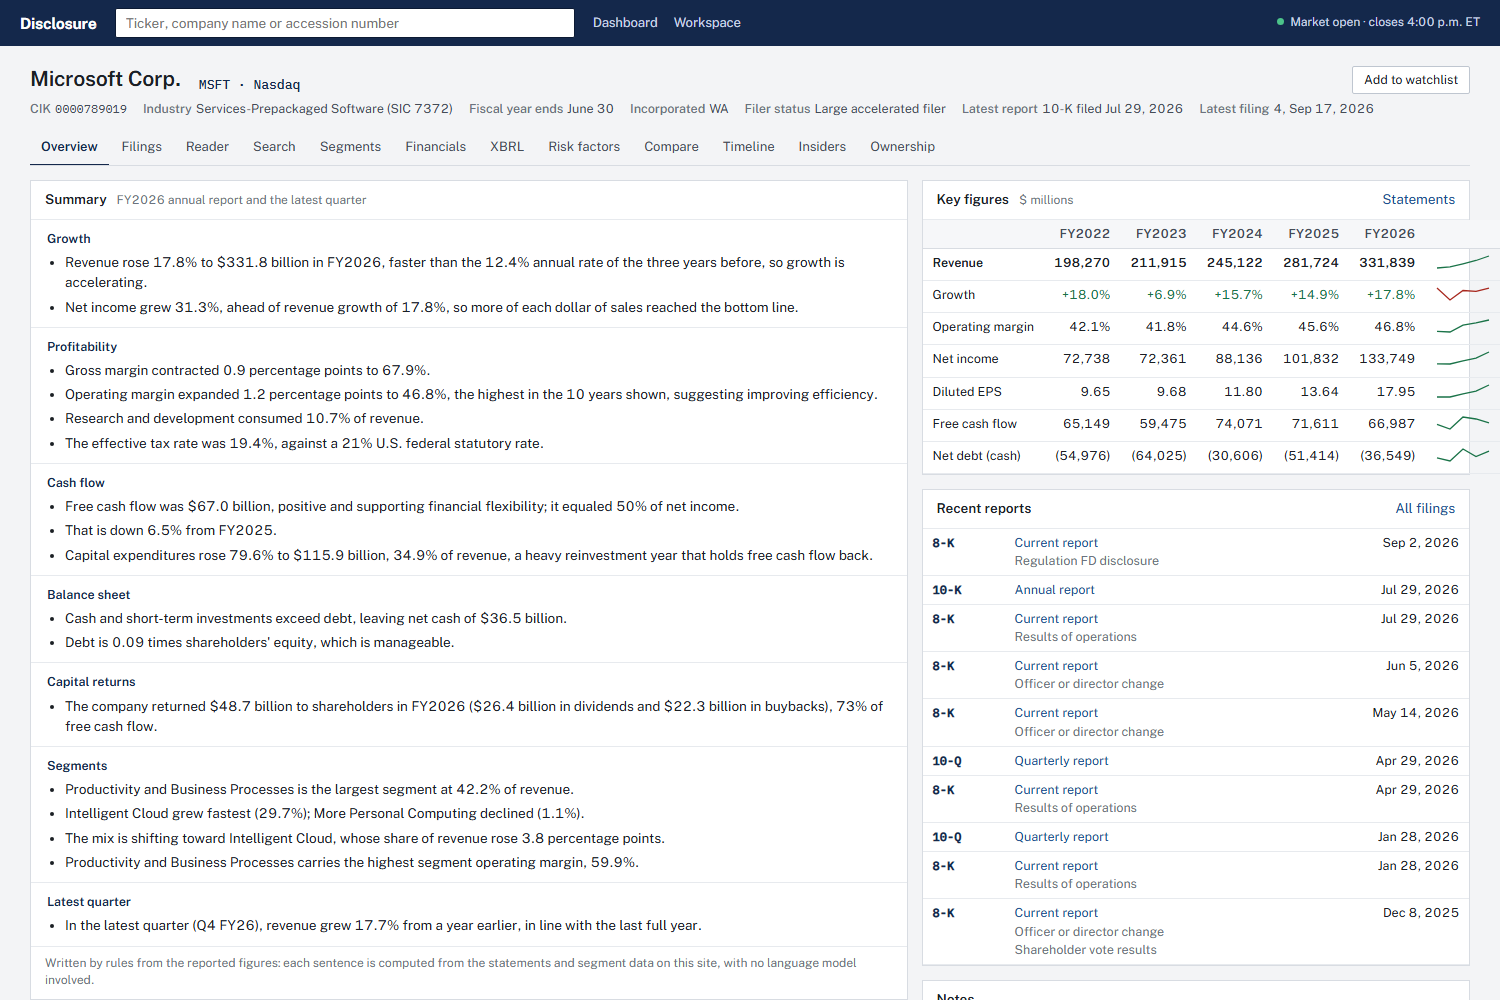
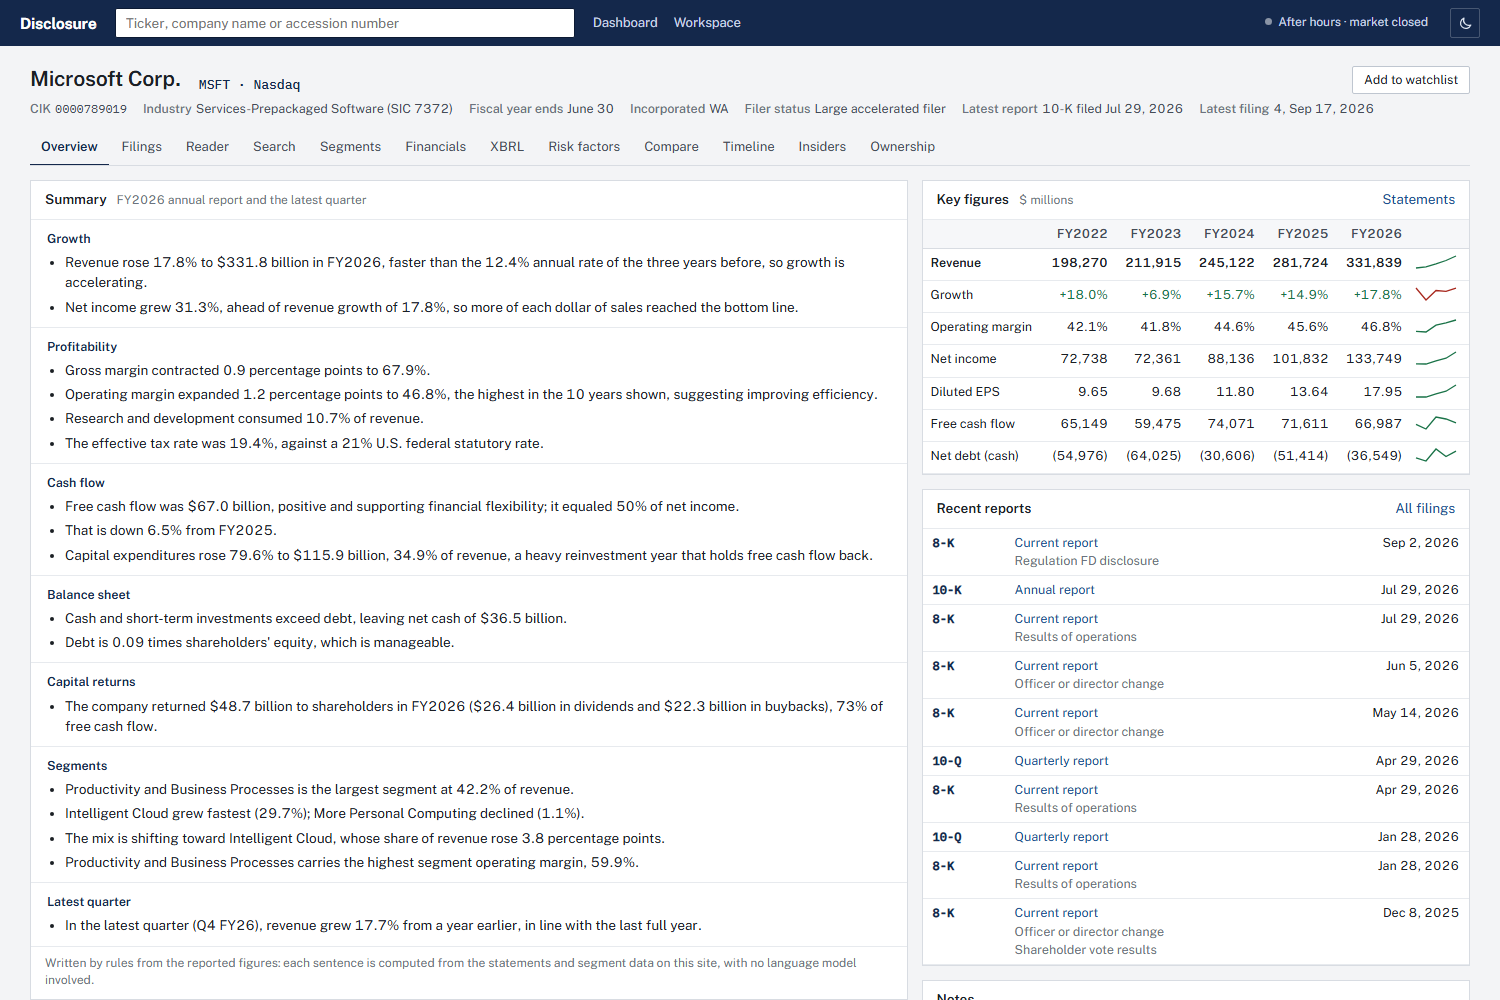
docs: update screenshots, fix key figures overflow

Changed region(s): [[0.6133, 0.217, 0.9813, 0.465], [0.8587, 0.0, 0.9813, 0.031]]

diff --git a/public/js/views/overview.js b/public/js/views/overview.js
@@ -67,11 +67,11 @@ export async function render(root, { co, key }) {
   const kf = root.querySelector("#kf");
   if (fin.status === "rejected") { kf.innerHTML = failure("Figures unavailable", fin.reason); return; }
   const A = fin.value.annual, L = A.lines, n = A.periods.length, cols = A.periods.slice(-5), off = n - cols.length;
-  const row = (label, vals, fmt, cls = "") => `<tr class="${cls}"><td>${label}</td>${vals.map((v) => `<td class="r">${fmt(v)}</td>`).join("")}<td class="c">${spark(vals, 56, 16)}</td></tr>`;
+  const row = (label, vals, fmt, cls = "") => `<tr class="${cls}"><td>${label}</td>${vals.map((v) => `<td class="r">${fmt(v)}</td>`).join("")}<td class="c">${spark(vals, 44, 16)}</td></tr>`;
   const at = (key) => cols.map((_, i) => L[key][i + off]);
   const growth = cols.map((_, i) => (ok(L.revenue[i + off]) && ok(L.revenue[i + off - 1]) && L.revenue[i + off - 1] ? L.revenue[i + off] / L.revenue[i + off - 1] - 1 : null));
   const margin = cols.map((_, i) => (ok(L.operatingIncome[i + off]) && L.revenue[i + off] ? L.operatingIncome[i + off] / L.revenue[i + off] : null));
-  kf.innerHTML = `<table class="grid nowrap-first"><thead><tr><th></th>${cols.map((p) => `<th class="r">${esc(p.label)}</th>`).join("")}<th></th></tr></thead><tbody>
+  kf.innerHTML = `<div class="scroll"><table class="grid nowrap-first kf"><thead><tr><th></th>${cols.map((p) => `<th class="r">${esc(p.label)}</th>`).join("")}<th></th></tr></thead><tbody>
     ${row("Revenue", at("revenue"), mil, "total")}
     ${row("Growth", growth, (v) => `<span class="${tone(v)}">${pct(v, 1, true)}</span>`)}
     ${row("Operating margin", margin, (v) => pct(v))}
@@ -79,5 +79,5 @@ export async function render(root, { co, key }) {
     ${row("Diluted EPS", at("epsDiluted"), (v) => (ok(v) ? v.toFixed(2) : "—"))}
     ${row("Free cash flow", at("fcf"), mil)}
     ${row("Net debt (cash)", at("netDebt"), mil)}
-  </tbody></table>`;
+  </tbody></table></div>`;
 }

diff --git a/public/css/app.css b/public/css/app.css
@@ -359,3 +359,5 @@ span.fig { background: var(--fig-bg); color: var(--fig-ink); border-radius: 1px;
 }
 .grid.nowrap-first td:first-child { white-space: nowrap; }
 html.dark .omni input { border-color: #33405a; }
+.grid.kf th, .grid.kf td { padding-left: 8px; padding-right: 8px; }
+.grid.kf td.c { padding-left: 4px; padding-right: 10px; }

diff --git a/README.md b/README.md
@@ -70,6 +70,8 @@ Banks get their own rules, because debt ratios built for industrial companies mi
 
 **Light and dark themes.** A toggle in the top bar switches every page, chart and diff view. The choice is remembered and applied before the first paint, so pages never flash the wrong theme.
 
+![Amazon's segments in dark mode](docs/screenshots/segments-dark.png)
+
 ## How it works
 
 ```
